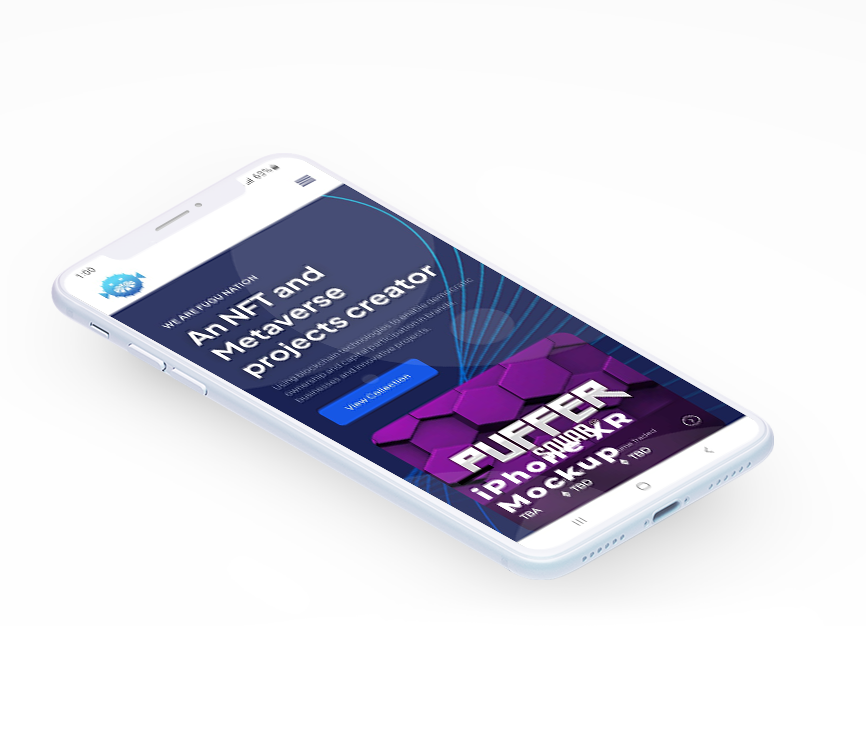
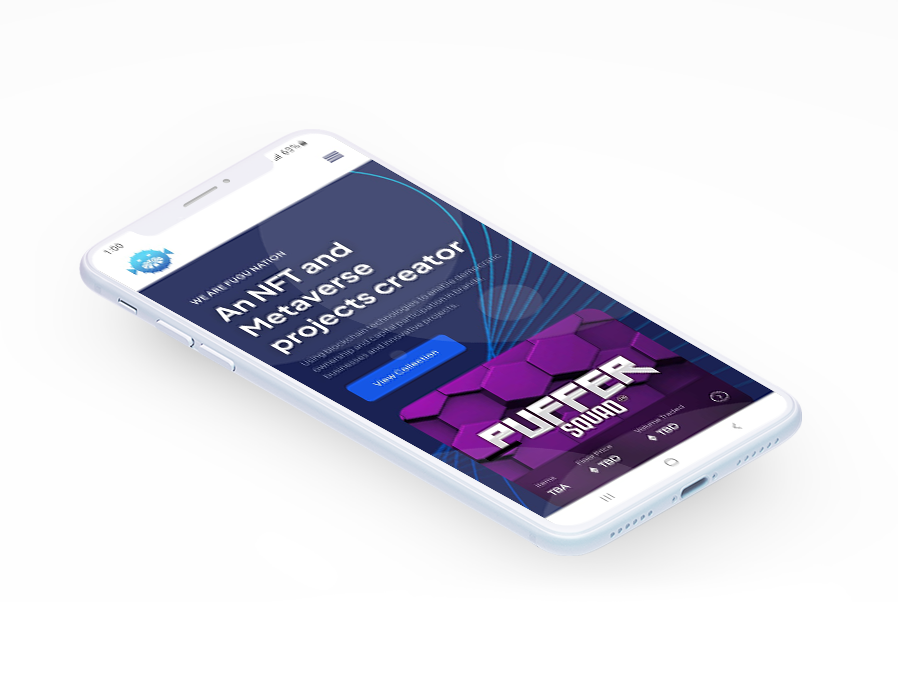
latest commit

Changed region(s): [[0.0624, 0.2165, 0.9042, 0.8351], [0.1871, 0.2784, 0.2494, 0.3093]]

diff --git a/src/index.css b/src/index.css
@@ -26,6 +26,7 @@ body {
   overflow-x: hidden;
   padding: 0px;
   
+  
 }
 .navbar-brand{
   font-size: .8rem;
@@ -41,7 +42,7 @@ body {
   font-weight: 500;
   color: #172A58;
 }
-.first_container {
+.first_banner_container {
   padding-left: 100px;
   padding-right: 100px;
   background-image: url("./assets/Fugu-Banner-removebg-preview.png");
@@ -52,15 +53,28 @@ overflow-x: hidden !important;
   background-repeat: no-repeat;
   background-size: cover;
 }
+.second_banner_container{
+  padding-left: 100px;
+    padding-right: 100px;
+    background-image: url("./assets/PFS-Banner.png");
+    align-items: center;
+    /* justify-content: space-between; */
+    color: #ffffff;
+    overflow-x: hidden !important;
+    background-repeat: no-repeat;
+    background-size: cover;
+}
 
 .socials_container {
-  padding: 20px 0px 0px 50px;
+  padding: 50px 50px 0px 50px;
   position: relative;
+
   /* margin-top: 30px; */
 
 
 
 }
+
 
 .indi_socials_container {
   display: flex;
@@ -172,6 +186,8 @@ font-size: .9rem;
 font-weight: 500;
 }
 
+
+
 /* IMAGES */
 .banner_img {
   height: 250px;
@@ -184,11 +200,12 @@ font-weight: 500;
 }
 
 .socials_img {
-  height: 200px;
-  width: 200px;
+  height: 150px;
+  width: 150px;
 }
 .cont_browsing_img{
   height: 80px;
+  margin-left: 150px;
 
 }
 
@@ -199,22 +216,28 @@ font-weight: 500;
 .mobile {
   display: block;
   position: absolute;
-    right: 220px;
-    bottom: 440px;
+    right: 320px;
+  
+    bottom: 300px;
    z-index: 1000;
     height: 500px;
     width: 500px;
 }
+ .first_banner_container {
+   padding-left: 200px;
+   padding-right: 200px;
+ }
+ .second_banner_container{
+  padding-left: 200px;
+    padding-right: 200px;
+ }
+
+ 
    
     };
+                
 
-@media screen and (min-width: 992px) {
 
-};
-/* medium screen  */
-@media screen and (min-width: 768px) {
-
-}
 /* mobiles  */
 @media screen and (max-width: 576px) {
 .indi_socials_container {

diff --git a/src/components/first_social_container.js b/src/components/first_social_container.js
@@ -13,12 +13,12 @@ import SocialWidget from "./social_widgets";
 
 const FirstSocialContainer = () => {
 	return (
-		<div className="socials_container ">
+		<div className="socials_container container-fluid">
 			<img src={mobile} alt="mobile" className="mobile" />
 			<h5>
 				FUGU NATION <span className="social_header_span">TREELINK</span>
 			</h5>
-			<div className="row row-cols-2 row-cols-xs-1  row-cols-md-3   row-cols-lg-5">
+			<div className="row row-cols-xs-5 row-cols-sm-5   row-cols-md-5   row-cols-lg-5">
 				<SocialWidget
 					image={twitter}
 					color={"#005cb9"}
@@ -32,7 +32,7 @@ const FirstSocialContainer = () => {
 					bottom_title="FUGU_NATION"
 				/>
 			</div>
-			<div className="row row-cols-2  row-cols-md-3 row-cols-xs-1   row-cols-lg-5">
+			<div className="row row-cols-xs-5 row-cols-sm-5   row-cols-md-5   row-cols-lg-5">
 				<SocialWidget
 					image={facebook}
 					color={"#005cb9"}
@@ -52,7 +52,7 @@ const FirstSocialContainer = () => {
 					bottom_title="FUGU_NATION"
 				/>
 			</div>
-			<div className="row row-cols-2 row-cols-md-3 row-cols-lg-5">
+			<div className="row row-cols-xs-5 row-cols-sm-5   row-cols-md-5   row-cols-lg-5">
 				<SocialWidget
 					image={youtube}
 					color={"#005cb9"}
@@ -72,10 +72,10 @@ const FirstSocialContainer = () => {
 					bottom_title="FUGU_NATION"
 				/>
 			</div>
-			<div className="row row-cols-2 row-cols-lg-5">
-				<div></div>
-				<div></div>
-				<a href="/" className="ms-5 continue_browsing">
+			<div className="row row-cols-xs-5 row-cols-sm-5   row-cols-md-5   row-cols-lg-5">
+				<div className="col"></div>
+				<div className="col"></div>
+				<a href="/" className="col ms-5 continue_browsing">
 					<img
 						className="cont_browsing_img"
 						src={cont_browsing}

diff --git a/src/components/banner.js b/src/components/banner.js
@@ -1,17 +1,20 @@
 import React from "react";
 
-const Banner = ({ banner, title, des }) => {
+const Banner = ({ banner, title, des, className }) => {
 	return (
-		<div className="container-fl">
-			<div className="first_container  row">
+		<div className="container-fluid">
+			<div className={`row  ${className}`}>
 				<img
 					src={banner}
-					className="col-lg-5 col-md-6 col-sm-6  col-xs-12 banner_img"
-					alt="first_banner"
+					className=" col-xs-12 col-sm-6 col-md-2 col-lg-5 banner_img"
+					alt="banner"
 				/>
-				<div className="col-lg-7 col-md-6 col-sm-6 col-xs-12 banner_test_container">
+
+				{/*   */}
+				{/*  */}
+				<div className="col-xs-12 col-sm-6 col-md-10 col-lg-7 banner_test_container">
 					<p className="banner_head_test">{title}</p>
-					<p className="banner_body_test">{des}</p>
+					<p className="banner_body_test pe-5">{des}</p>
 				</div>
 			</div>
 		</div>

diff --git a/src/components/second_social_container.js b/src/components/second_social_container.js
@@ -14,7 +14,7 @@ const SecondSocialContainer = () => {
 			<h5 style={{ color: "#800080" }}>
 				PUFFERSQUAD <span className="social_header_span">TREELINK</span>
 			</h5>
-			<div className="row row-cols-2 row-cols-md-3 row-cols-xs-1 row-cols-lg-5">
+			<div className="row row-cols-xs-5 row-cols-sm-5   row-cols-md-5   row-cols-lg-5">
 				<SocialWidget
 					color={"#800080"}
 					image={twitter}
@@ -29,7 +29,7 @@ const SecondSocialContainer = () => {
 				/>
 			</div>
 
-			<div className="row row-cols-2 row-cols-md-3 row-cols-xs-1 row-cols-lg-5">
+			<div className="row row-cols-xs-5 row-cols-sm-5   row-cols-md-5   row-cols-lg-5">
 				<SocialWidget
 					color={"#800080"}
 					image={facebook}

diff --git a/src/components/second_banner.js b/src/components/second_banner.js
@@ -1,11 +1,12 @@
 import React from "react";
 import Banner from "./banner";
-import banner from "../assets/PFS-banner.png";
+import banner from "../assets/PFS-logo.png";
 
 const SecondBanner = () => {
 	return (
 		<Banner
 			title={"PufferSquad"}
+			className="second_banner_container"
 			banner={banner}
 			des={
 				'PFS is a "Work-to-earn" NFT project. Your PFS NFT is the key to access the platform we created for you. In this platform, the resources you need to make money from your NFT will be available.'

diff --git a/src/components/first_banner.js b/src/components/first_banner.js
@@ -6,6 +6,7 @@ const FirstBanner = () => {
 	return (
 		<Banner
 			title={"Fugu Nation"}
+			className="first_banner_container"
 			des={
 				"Fugu Nation's promise to it's community is to never stop producingoutisde the box projects that will stun, amaze and innovate. Projectsthat will make sure your investment keeps growing in value & becomes a source of revenue."
 			}
